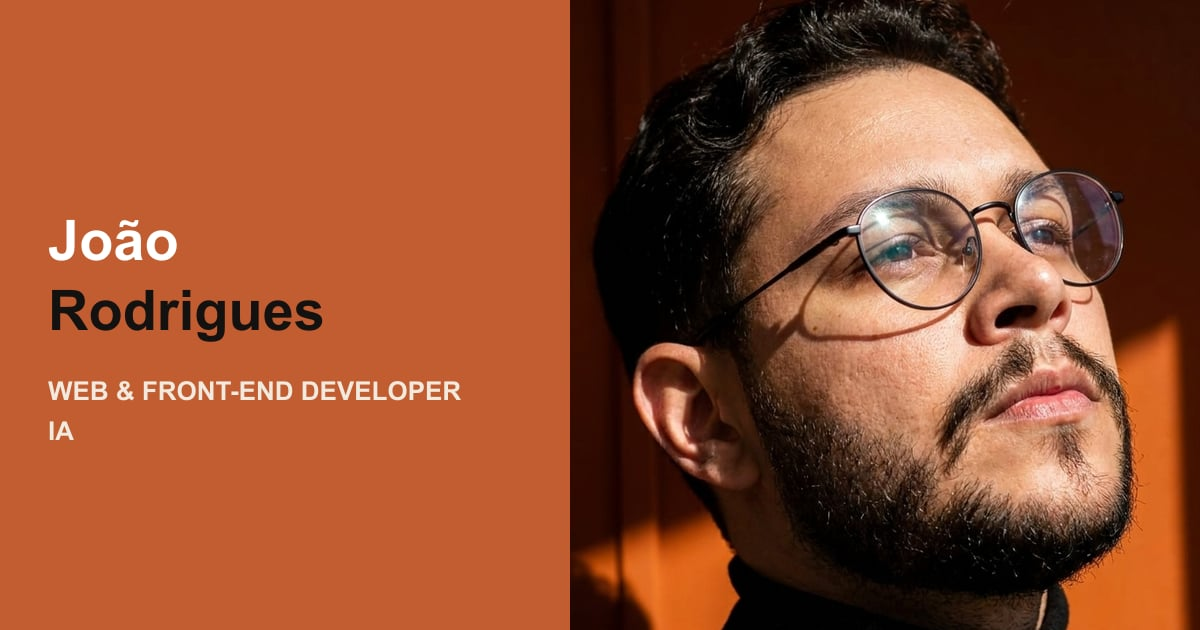
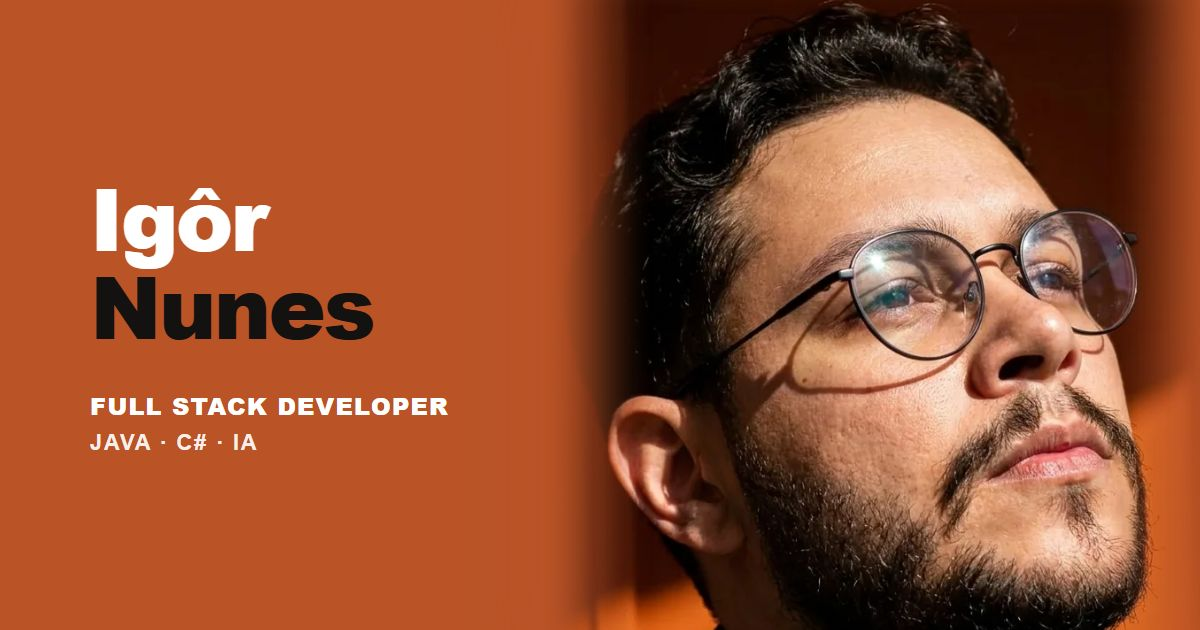
fix(seo): update SEO image and metadata to Igor Nunes

diff --git a/scripts/generate_seo.html b/scripts/generate_seo.html
@@ -1,0 +1,113 @@
+<!DOCTYPE html>
+<html lang="pt-BR">
+<head>
+  <meta charset="UTF-8">
+  <link rel="preconnect" href="https://fonts.googleapis.com">
+  <link rel="preconnect" href="https://fonts.gstatic.com" crossorigin>
+  <link href="https://fonts.googleapis.com/css2?family=Inter:wght@700;800;900&family=JetBrains+Mono:wght@700;800&family=Syne:wght@800&display=swap" rel="stylesheet">
+  <style>
+    * {
+      margin: 0;
+      padding: 0;
+      box-sizing: border-box;
+    }
+    html, body {
+      width: 1200px;
+      height: 630px;
+      overflow: hidden;
+      background-color: #BA5427;
+      font-family: 'Inter', sans-serif;
+      -webkit-font-smoothing: antialiased;
+    }
+    .card {
+      position: relative;
+      width: 1200px;
+      height: 630px;
+      background: #BA5427;
+      display: flex;
+      align-items: center;
+      justify-content: flex-start;
+      overflow: hidden;
+    }
+    .photo-container {
+      position: absolute;
+      right: -20px;
+      top: -30px;
+      width: 680px;
+      height: 700px;
+      z-index: 1;
+      display: flex;
+      justify-content: flex-end;
+      align-items: flex-start;
+    }
+    .photo-container img {
+      width: 100%;
+      height: 100%;
+      object-fit: cover;
+      object-position: 50% 15%;
+      filter: drop-shadow(-20px 0 40px rgba(186, 84, 39, 0.8));
+    }
+    .content {
+      position: relative;
+      z-index: 10;
+      padding-left: 90px;
+      max-width: 580px;
+      display: flex;
+      flex-direction: column;
+    }
+    .name-white {
+      font-family: 'Inter', sans-serif;
+      font-size: 86px;
+      font-weight: 800;
+      line-height: 1.0;
+      color: #FFFFFF;
+      letter-spacing: -0.03em;
+    }
+    .name-dark {
+      font-family: 'Inter', sans-serif;
+      font-size: 86px;
+      font-weight: 800;
+      line-height: 1.05;
+      color: #141210;
+      letter-spacing: -0.03em;
+      margin-bottom: 38px;
+    }
+    .tags {
+      display: flex;
+      flex-direction: column;
+      gap: 8px;
+    }
+    .tag-line {
+      font-family: 'Inter', sans-serif;
+      font-size: 24px;
+      font-weight: 800;
+      letter-spacing: 0.05em;
+      text-transform: uppercase;
+      color: #FFFFFF;
+    }
+    .tag-sub {
+      font-family: 'Inter', sans-serif;
+      font-size: 22px;
+      font-weight: 700;
+      letter-spacing: 0.08em;
+      text-transform: uppercase;
+      color: rgba(255, 255, 255, 0.92);
+    }
+  </style>
+</head>
+<body>
+  <div class="card">
+    <div class="content">
+      <h1 class="name-white">Igôr</h1>
+      <h1 class="name-dark">Nunes</h1>
+      <div class="tags">
+        <div class="tag-line">Full Stack Developer</div>
+        <div class="tag-sub">Java · C# · IA</div>
+      </div>
+    </div>
+    <div class="photo-container">
+      <img src="../public/joao-blend.webp" alt="Igôr Nunes">
+    </div>
+  </div>
+</body>
+</html>

diff --git a/index.html b/index.html
@@ -6,12 +6,14 @@
   <meta name="google" content="notranslate" />
   <meta name="description" content="Transformando lógica em soluções reais desde 2014. Com sólida atuação no desenvolvimento web desde 2019, ajudo a construir sistemas escaláveis, arquiteturas seguras e negócios digitais consistentes." />
 
+  <meta name="author" content="Igôr Nunes" />
+
   <!-- Open Graph / Facebook -->
   <meta property="og:type" content="website" />
   <meta property="og:url" content="https://portfolio-jr-lilac.vercel.app/" />
   <meta property="og:title" content="Portfolio - Igôr Nunes" />
   <meta property="og:description" content="Transformando lógica em soluções reais desde 2014. Com sólida atuação no desenvolvimento web desde 2019, ajudo a construir sistemas escaláveis, arquiteturas seguras e negócios digitais consistentes." />
-  <meta property="og:image" content="https://portfolio-jr-lilac.vercel.app/seo-image.jpg?v=4" />
+  <meta property="og:image" content="https://portfolio-jr-lilac.vercel.app/seo-image.jpg?v=5" />
   <meta property="og:image:width" content="1200" />
   <meta property="og:image:height" content="630" />
   <meta property="og:image:type" content="image/jpeg" />
@@ -21,7 +23,7 @@
   <meta name="twitter:url" content="https://portfolio-jr-lilac.vercel.app/" />
   <meta name="twitter:title" content="Portfolio - Igôr Nunes" />
   <meta name="twitter:description" content="Transformando lógica em soluções reais desde 2014. Com sólida atuação no desenvolvimento web desde 2019, ajudo a construir sistemas escaláveis, arquiteturas seguras e negócios digitais consistentes." />
-  <meta name="twitter:image" content="https://portfolio-jr-lilac.vercel.app/seo-image.jpg?v=4" />
+  <meta name="twitter:image" content="https://portfolio-jr-lilac.vercel.app/seo-image.jpg?v=5" />
 
   <link rel="icon" type="image/svg+xml" href="/favicon.svg" />
   <title>Igôr Nunes | Portfolio</title>
